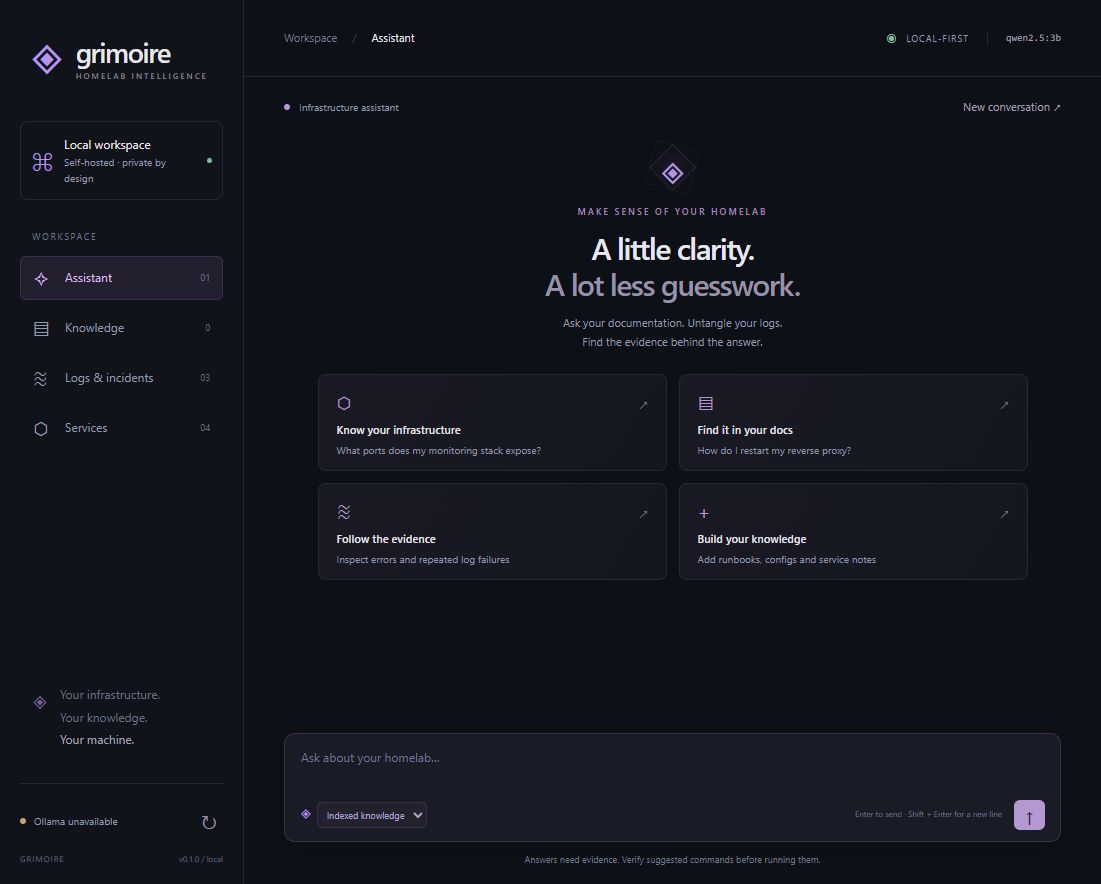
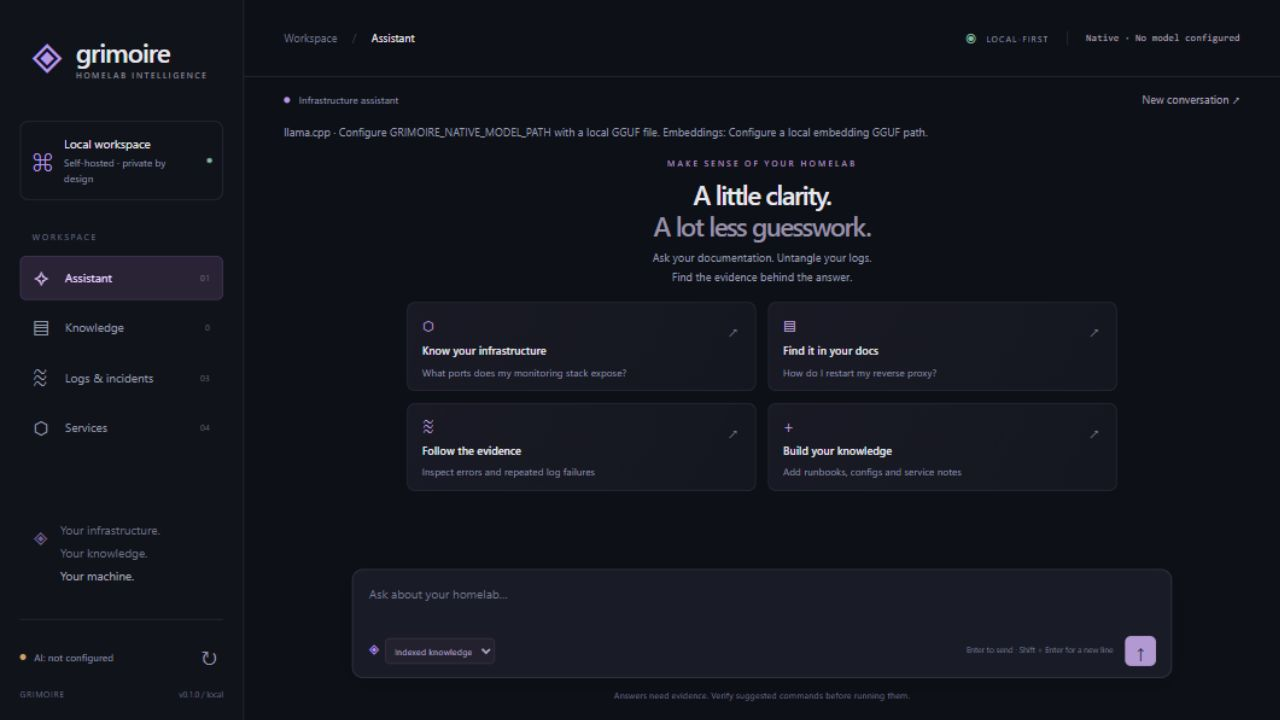
clarify frontend status and evidence workflows

diff --git a/frontend/src/app.js b/frontend/src/app.js
@@ -63,8 +63,14 @@ async function refreshStatus() {
     $("#upload-limit").textContent =
       `${(status.upload_limit_bytes / 1048576).toFixed(1)} MiB`;
     $("#connection-label").title = display.detail;
+    $("#runtime-detail").textContent = display.detail;
+    $("#runtime-detail").hidden = ready;
   } catch {
     $("#connection-label").textContent = "Backend unavailable";
+    $("#model-tag").textContent = "Backend unavailable";
+    $("#runtime-detail").textContent =
+      "Cannot reach the backend. Check the server, then refresh connection status.";
+    $("#runtime-detail").hidden = false;
     $("#connection-dot").classList.remove("ready");
   }
 }
@@ -201,7 +207,7 @@ async function loadDocuments() {
       element(
         "div",
         "empty",
-        "Your codex is empty. Index a runbook or configuration file to begin.",
+        "No documents indexed. Add a runbook or configuration file to begin. Fictional examples are in data/examples/.",
       ),
     );
   for (const doc of docs) {
@@ -395,8 +401,13 @@ $("#log-form").addEventListener("submit", async (event) => {
         );
       if (analysis.explanation)
         report.append(
-          element("h2", "", "Local model explanation"),
+          element("h2", "", "Evidence-backed interpretation"),
           element("pre", "report", analysis.explanation),
+        );
+      if (analysis.suggested_investigation?.length)
+        report.append(
+          element("h2", "", "Suggested investigation"),
+          element("pre", "report", analysis.suggested_investigation.join("\n")),
         );
     }
     area.append(report);

diff --git a/frontend/index.html b/frontend/index.html
@@ -78,6 +78,7 @@
             New conversation ↗
           </button>
         </div>
+        <p id="runtime-detail" class="runtime-detail" role="status" hidden></p>
         <div
           id="conversation"
           class="conversation"
@@ -159,7 +160,7 @@
       </section>
       <section id="view-knowledge" class="view content-view" hidden>
         <div class="section-heading">
-          <div class="eyebrow">THE CODEX</div>
+          <div class="eyebrow">LOCAL KNOWLEDGE</div>
           <h1>Your knowledge, connected.</h1>
           <p>
             Index local runbooks and configuration. Keep the source within
@@ -194,8 +195,8 @@
               </button>
             </div>
             <p class="helper">
-              A local embedding model must be configured. Files remain on this server;
-              never upload secrets.
+              Requires a local embedding model. Extracted text and vectors stay on
+              this server; original files are not retained. Never upload secrets.
             </p>
           </form>
         </div>
@@ -232,7 +233,7 @@
       </section>
       <section id="view-logs" class="view content-view" hidden>
         <div class="section-heading">
-          <div class="eyebrow">THE SCRYER</div>
+          <div class="eyebrow">LOG ANALYSIS</div>
           <h1>From noise to a working theory.</h1>
           <p>
             Inspect supplied logs. Separate observed events from possible

diff --git a/frontend/src/api.js b/frontend/src/api.js
@@ -64,6 +64,6 @@ export function modelStatus(status) {
     label: ai.state === "ready"
       ? (embeddings.state === "ready" ? "Local models ready" : "Chat ready · embeddings unavailable")
       : `AI: ${ai.state.replaceAll("_", " ")}`,
-    detail: `${ai.backend} · ${ai.reason || ai.state}. Embeddings: ${embeddings.reason || embeddings.state}`,
+    detail: `${ai.backend} · ${(ai.reason || ai.state).replace(/\.+$/, "")}. Embeddings: ${embeddings.reason || embeddings.state}`,
   };
 }

diff --git a/frontend/src/compact.css b/frontend/src/compact.css
@@ -32,3 +32,29 @@
     margin-top: 3px;
   }
 }
+
+@media (min-width: 701px) and (max-height: 780px) {
+  .hero-sigil {
+    display: none;
+  }
+  .chat-toolbar {
+    padding-top: 14px;
+    padding-bottom: 14px;
+  }
+  .welcome h1 {
+    font-size: 26px;
+    margin: 8px 0;
+  }
+  .welcome > p {
+    margin: 8px 0 16px;
+  }
+  .prompt-grid button {
+    padding: 10px 14px;
+  }
+  .prompt-icon {
+    font-size: 16px;
+  }
+  .conversation {
+    padding-bottom: 8px;
+  }
+}

diff --git a/frontend/src/styles.css b/frontend/src/styles.css
@@ -1072,3 +1072,10 @@ summary > span {
     font-size: 10px;
   }
 }
+
+.runtime-detail {
+  color: var(--muted);
+  font-size: 11px;
+  margin: 0 40px 8px;
+  overflow-wrap: anywhere;
+}
